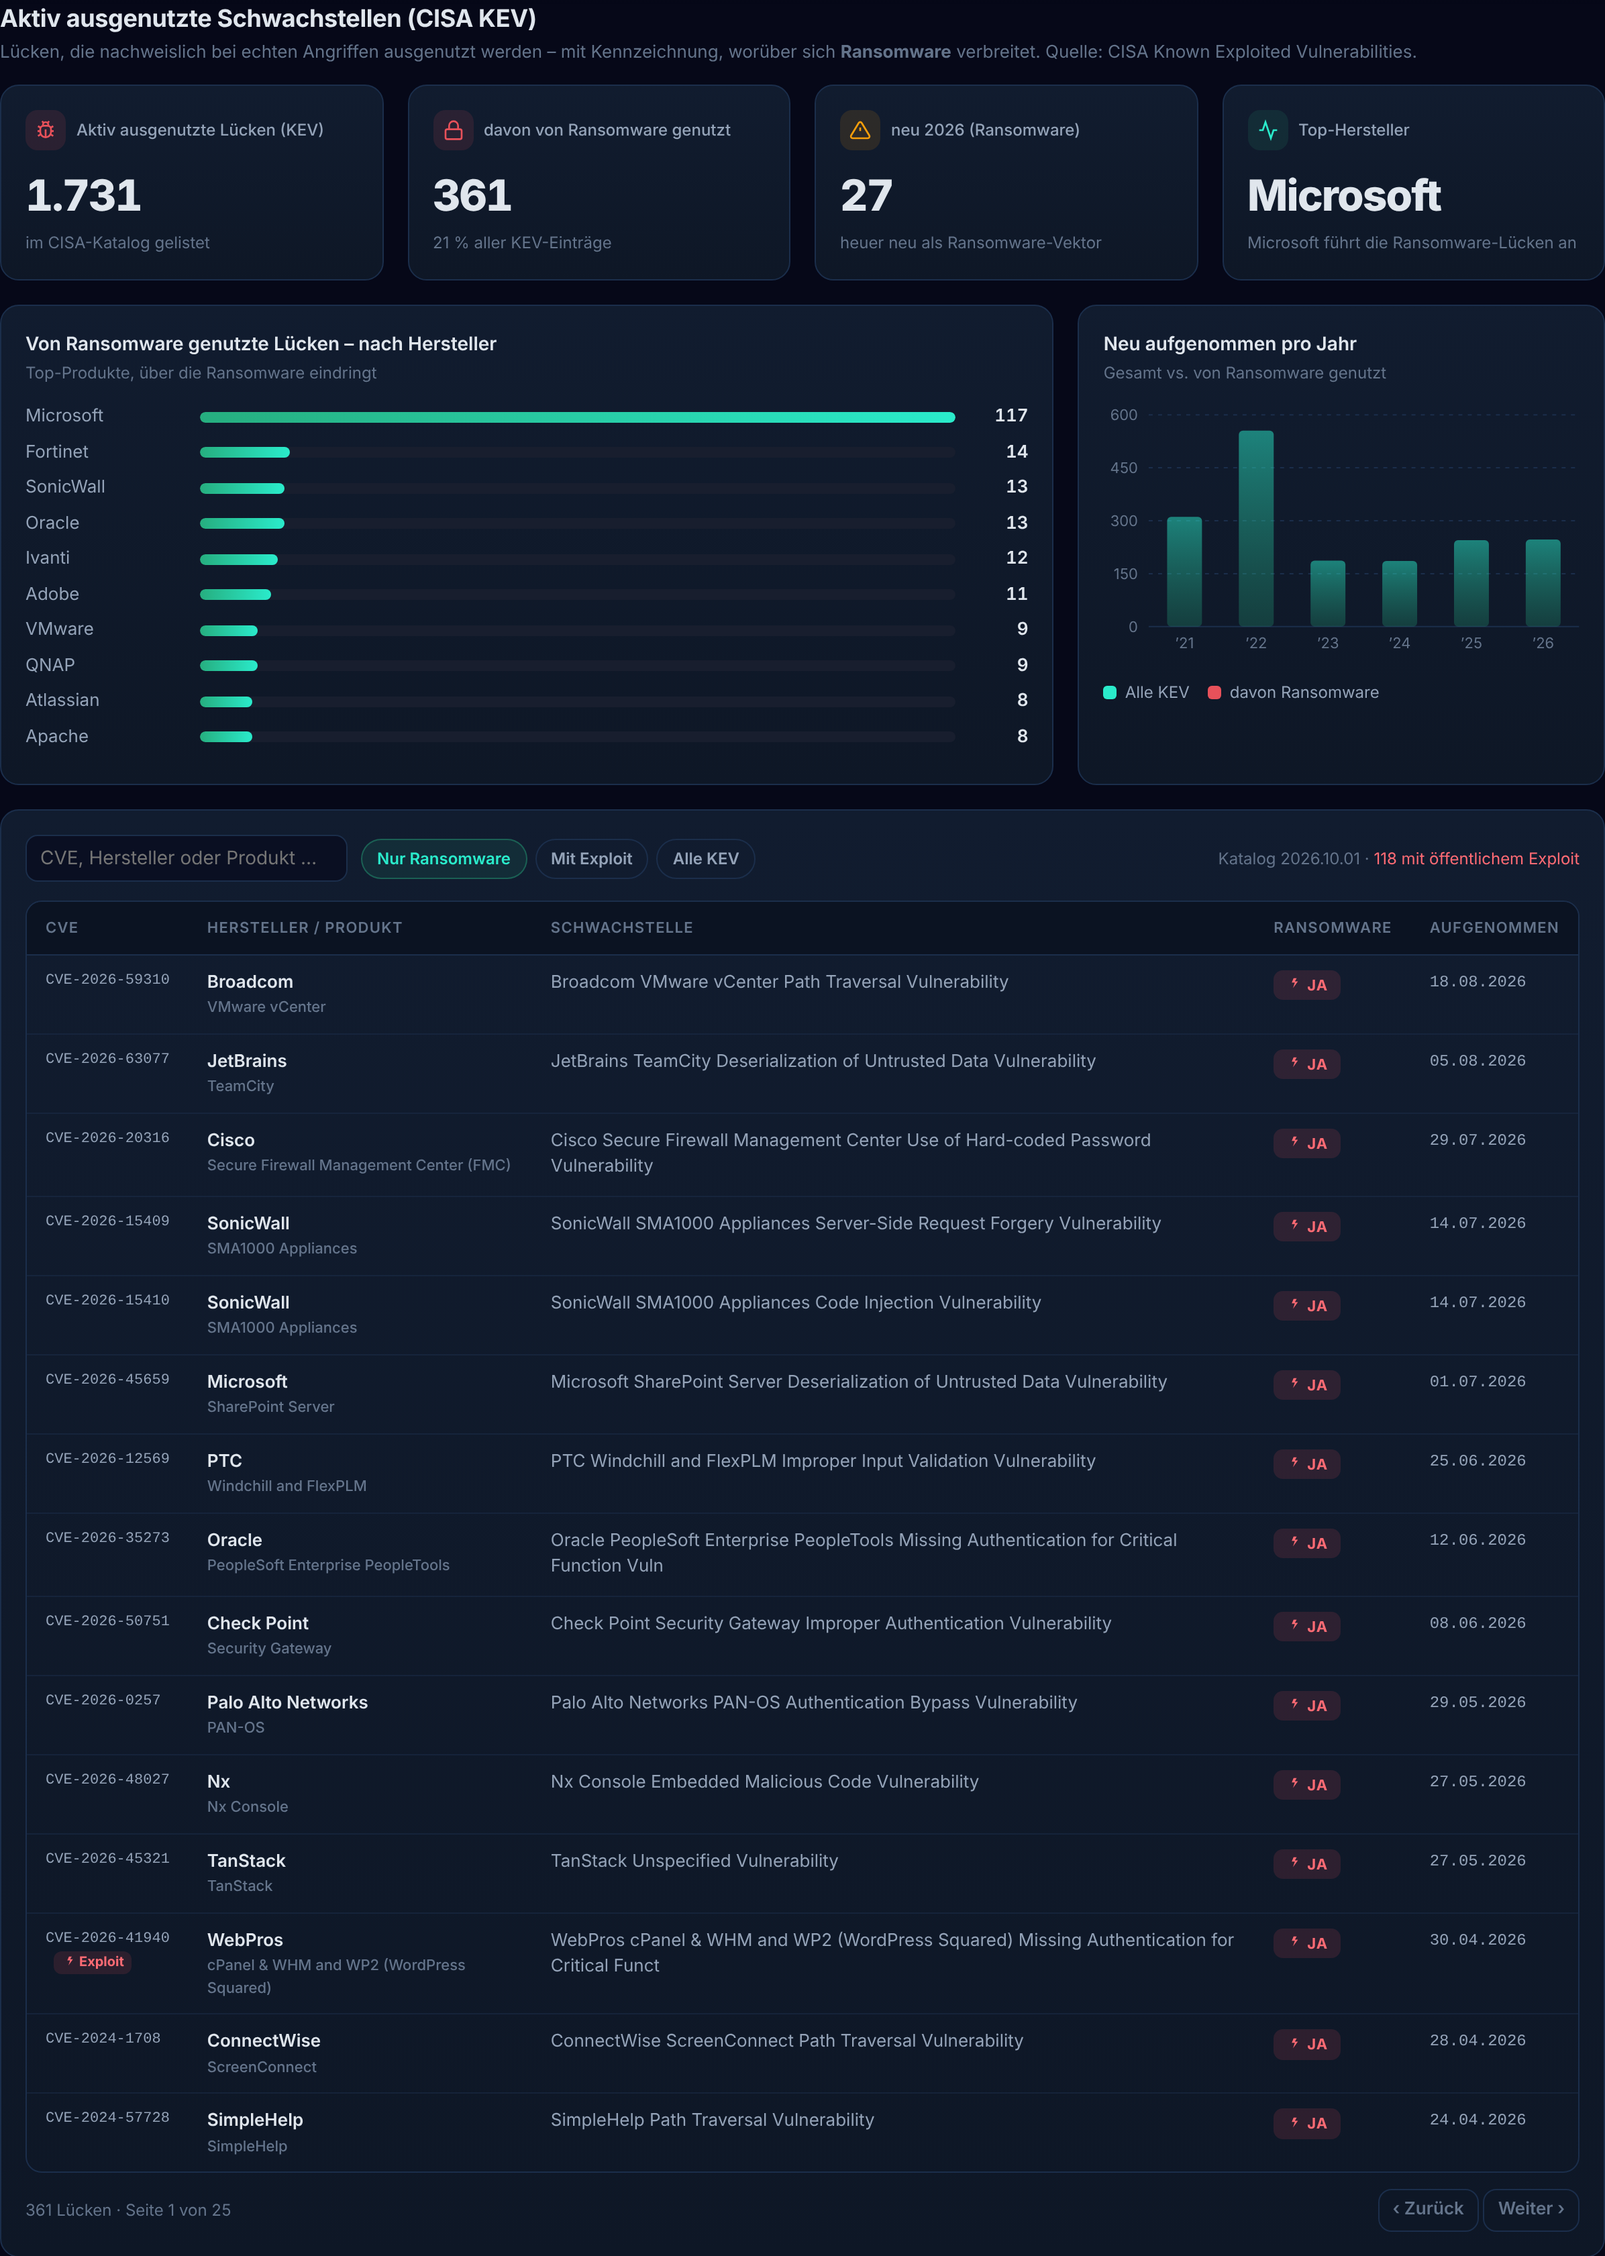
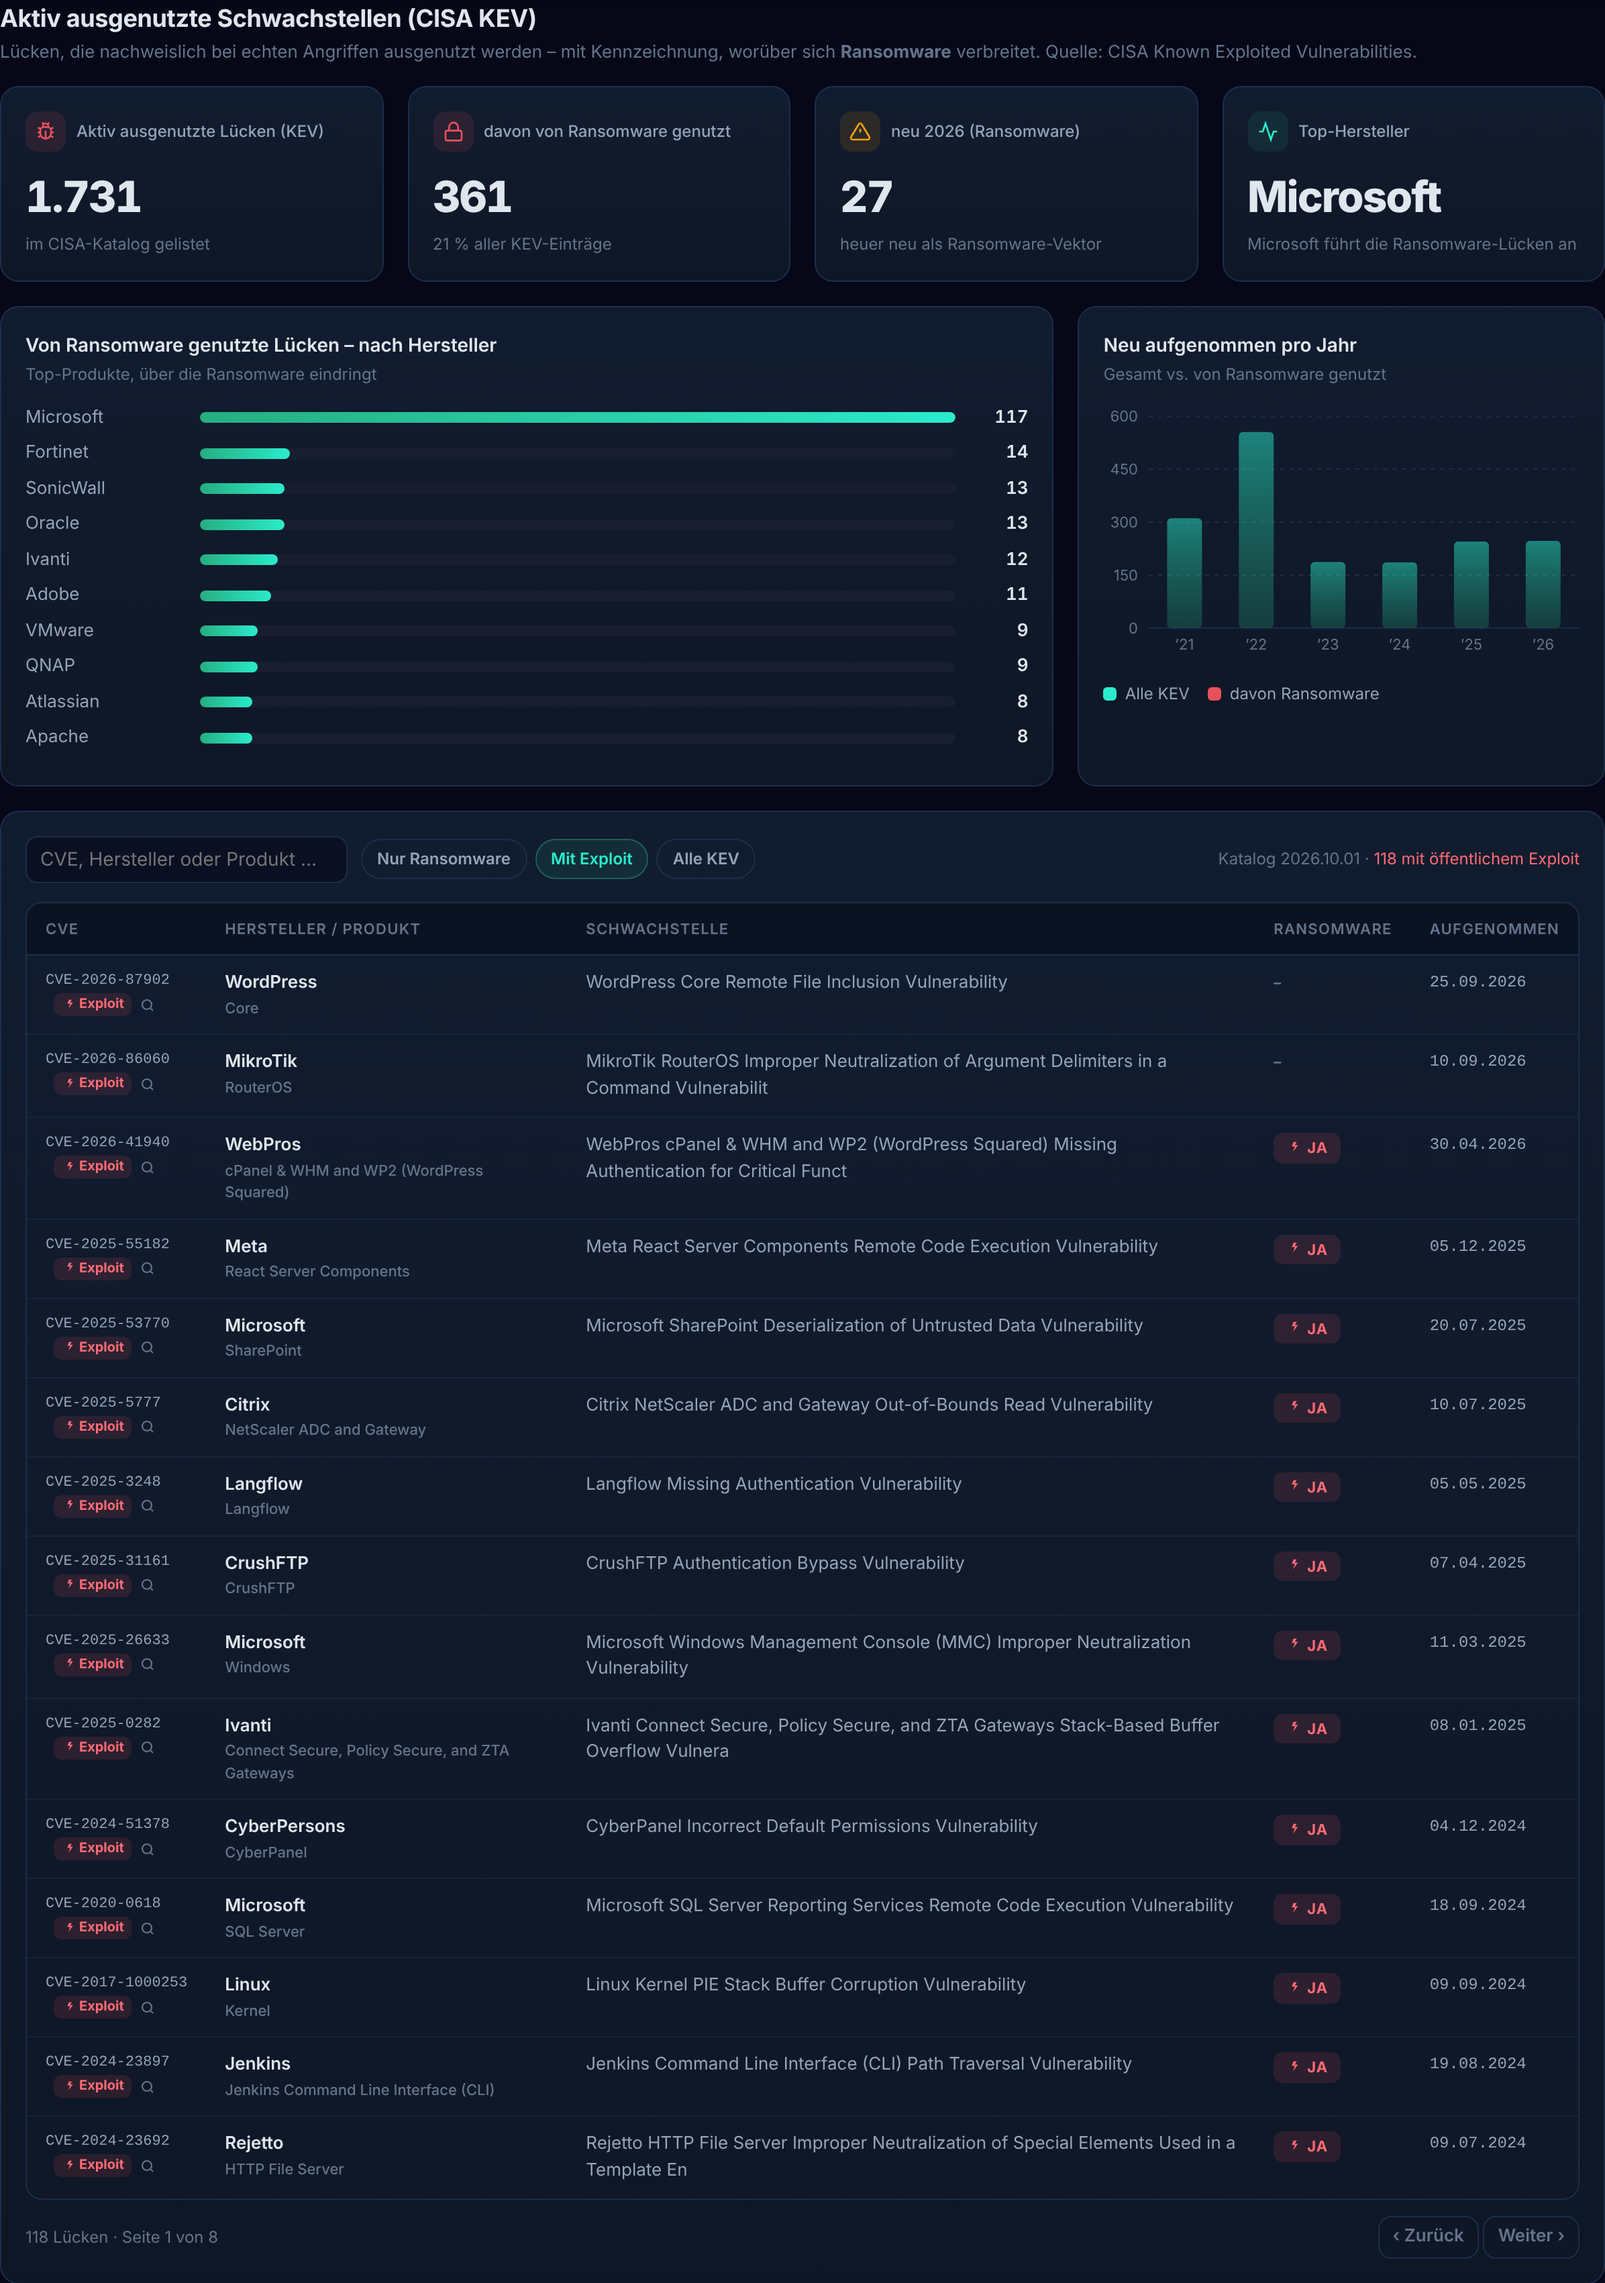
feat: Sploitus-Nachschlage-Link je CVE
Jede CVE (KEV + CERT-Bund) bekommt ein Lupen-Symbol, das die CVE direkt bei
Sploitus sucht. Bewusst als Link statt automatischem Flag: Sploitus liefert
massenhaft auto-generierte PoC-Stubs (selbst erfundene CVEs ergeben Treffer),
taugt also nicht als zuverlässiges Ja/Nein. Die kuratierte Exploit-DB bleibt
die Quelle für die automatische Exploit-Markierung.

Claude-Session: https://claude.ai/code/session_019grGWkdofxfEr8RQc195og

diff --git a/index.html b/index.html
@@ -160,6 +160,8 @@ td.name small{display:block;font-weight:500;color:var(--fg-dim);font-size:11px}
 .st.UPDATE{color:var(--fg-dim)}
 .exbadge{display:inline-flex;align-items:center;gap:3px;margin-left:6px;font-size:10px;font-weight:700;padding:1px 6px;border-radius:6px;background:#e7515a22;color:#ff6b74;white-space:nowrap;vertical-align:middle}
 .exbadge:hover{background:#e7515a33;text-decoration:none}
+.sploit{display:inline-flex;align-items:center;margin-left:6px;color:var(--fg-dim);vertical-align:middle}
+.sploit:hover{color:var(--accent2);text-decoration:none}
 .pager{display:flex;align-items:center;justify-content:space-between;margin-top:12px;color:var(--fg-dim);font-size:12px}
 .pager .btn{padding:5px 10px}
 .empty{padding:30px;text-align:center;color:var(--fg-dim)}
@@ -752,7 +754,7 @@ function renderAdv(){
     <td><span class="sev ${esc(a.cls)}">${esc(a.cls)}</span></td>
     <td><div class="score"><span class="tr"><span class="fl" style="width:${a.score||0}%;background:${SEVCOL[a.cls]||'#64748b'}"></span></span>${sc.toFixed(1).replace(".",",")}</div></td>
     <td><b style="font-weight:600">${esc(a.title)}</b><span class="cve">${esc(a.name)}</span></td>
-    <td>${a.cves.map(c=>`<a class="cve" href="https://nvd.nist.gov/vuln/detail/${esc(c)}" target="_blank" rel="noopener" onclick="event.stopPropagation()">${esc(c)}</a>`).join("")||'<span class="cve">–</span>'}${a.cves.some(c=>EXPLOITS.has(c))?exploitBadge(a.cves.find(c=>EXPLOITS.has(c))):""}</td>
+    <td>${a.cves.map(c=>`<a class="cve" href="https://nvd.nist.gov/vuln/detail/${esc(c)}" target="_blank" rel="noopener" onclick="event.stopPropagation()">${esc(c)}</a>`).join("")||'<span class="cve">–</span>'}${a.cves.some(c=>EXPLOITS.has(c))?exploitBadge(a.cves.find(c=>EXPLOITS.has(c))):""}${sploitusIcon(a.cves[0])}</td>
     <td><span class="st ${esc(a.status)}">${esc(a.status)}</span></td>
     <td class="date">${dDE(a.pub)} ${a.pub.slice(11,16)}</td></tr>`}).join("") : `<tr><td colspan="6" class="empty">Keine Meldungen für diese Auswahl.</td></tr>`;
   $("advInfo").textContent = `${fmtN(rows.length)} Meldungen · Seite ${advState.page+1} von ${pages}`;
@@ -976,8 +978,13 @@ function exploitBadge(cve){
   const q=encodeURIComponent(cve);
   return `<a class="exbadge" href="https://www.exploit-db.com/search?cve=${q}" target="_blank" rel="noopener" title="Öffentlicher Exploit bekannt – auf Exploit-DB ansehen" onclick="event.stopPropagation()"><svg width="10" height="10" viewBox="0 0 24 24" fill="currentColor"><path d="m13 2-3 7h5l-3 9 8-11h-5l3-5z"/></svg>Exploit</a>`;
 }
-// Sploitus-Suchlink (breitere Abdeckung) – für manuelle Prüfung einer CVE
-function sploitusLink(cve){ return `https://sploitus.com/?query=${encodeURIComponent(cve)}`; }
+// Sploitus-Nachschlage-Link pro CVE. Bewusst KEIN automatisches Flag: Sploitus aggregiert
+// massenhaft auto-generierte PoC-Stubs (selbst erfundene CVEs liefern Treffer), daher nur ein Link
+// zur manuellen Prüfung – die zuverlässige Ja/Nein-Markierung kommt von der kuratierten Exploit-DB.
+function sploitusIcon(cve){
+  if(!cve) return "";
+  return `<a class="sploit" href="https://sploitus.com/?query=${encodeURIComponent(cve)}" target="_blank" rel="noopener" title="Auf Sploitus nach Exploits/PoCs suchen (${esc(cve)})" onclick="event.stopPropagation()"><svg width="12" height="12" viewBox="0 0 24 24" fill="none" stroke="currentColor" stroke-width="2.2"><circle cx="11" cy="11" r="7"/><path d="m20 20-3.2-3.2"/></svg></a>`;
+}
 
 /* ============================================ KEV (aktiv ausgenutzt) */
 const KEV = window.KEV || {rows:[],topVendorsR:[],byYear:{},ransomByYear:{},total:0,ransomTotal:0};
@@ -1038,7 +1045,7 @@ function renderKevTable(){
   kevState.page=Math.min(kevState.page,pages-1);
   const sl=rows.slice(kevState.page*PAGE,kevState.page*PAGE+PAGE);
   $("kevBody").innerHTML=sl.length?sl.map(r=>`<tr data-cve="${esc(r[0])}">
-    <td><a class="cve" href="https://nvd.nist.gov/vuln/detail/${esc(r[0])}" target="_blank" rel="noopener" onclick="event.stopPropagation()">${esc(r[0])}</a>${exploitBadge(r[0])}</td>
+    <td><a class="cve" href="https://nvd.nist.gov/vuln/detail/${esc(r[0])}" target="_blank" rel="noopener" onclick="event.stopPropagation()">${esc(r[0])}</a>${exploitBadge(r[0])}${sploitusIcon(r[0])}</td>
     <td class="name"><span class="nm">${esc(r[2])}</span><small>${esc(r[3])}</small></td>
     <td style="color:var(--fg-muted)">${esc(r[4])}</td>
     <td>${r[6]===1?'<span class="sev kritisch" style="gap:5px"><svg width="11" height="11" viewBox="0 0 24 24" fill="currentColor"><path d="m13 2-3 7h5l-3 9 8-11h-5l3-5z"/></svg>Ja</span>':'<span class="st UPDATE">–</span>'}</td>

diff --git a/README.md b/README.md
@@ -116,7 +116,14 @@ nachweislich bei echten Angriffen ausgenutzt werden. Entscheidend ist hier die K
 öffentlicher Exploit vorliegt, tragen eine rote **„Exploit"-Markierung** (Link zur Exploit-DB-Suche).
 Das hilft bei der Priorisierung: aktiv ausgenutzt **und** öffentlich exploitbar = sofort patchen.
 Der Filter **„Mit Exploit"** zeigt genau diese Lücken, und die Kopfzeile nennt, wie viele es sind.
-Für die manuelle Recherche ist zusätzlich [Sploitus](https://sploitus.com/) in den Quellen verlinkt.
+
+Zusätzlich hat **jede CVE** ein kleines **Lupen-Symbol**, das die CVE direkt bei
+[Sploitus](https://sploitus.com/) nachschlägt (breitere, aber unkuratierte Abdeckung).
+
+> **Warum ist Sploitus nur ein Link und kein automatisches Ja/Nein?** Sploitus aggregiert sehr viele
+> auto-generierte PoC-Stubs – selbst eine erfundene CVE liefert dort „Treffer". Als automatisches
+> Flag wäre das irreführend. Die verlässliche Ja/Nein-Markierung kommt daher aus der kuratierten
+> Exploit-DB; Sploitus dient der manuellen Gegenprüfung per Klick.
 
 > Es wird ausschließlich die **Verfügbarkeit** eines Exploits angezeigt (ja/nein) – es wird **kein
 > Exploit-Code** geladen, gespeichert oder dargestellt. Gespeichert sind nur CVE-Kennungen.
